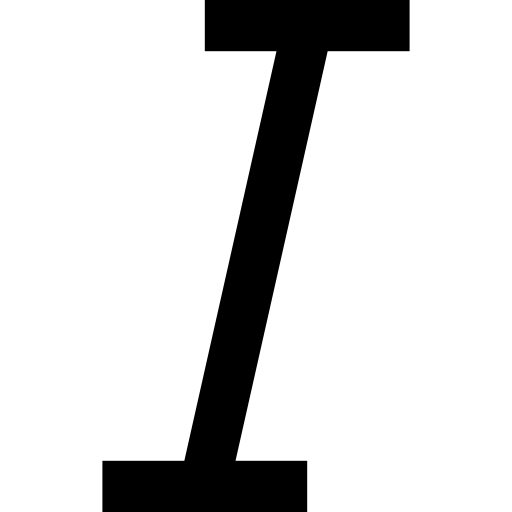
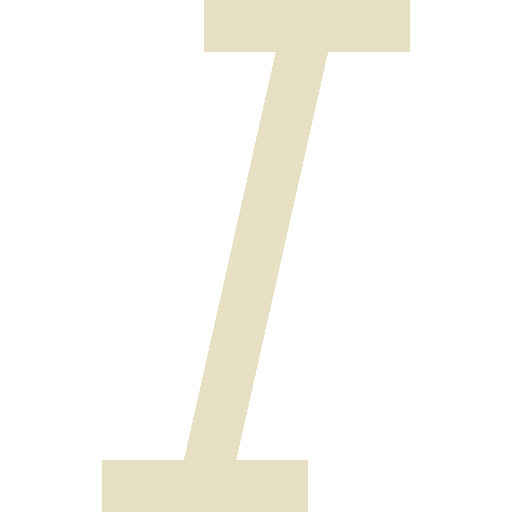
Text spacing, theme change, color picker

Changed region(s): [[0.1875, 0.0, 0.8125, 1.0]]

diff --git a/toolbar.py b/toolbar.py
@@ -7,6 +7,9 @@ import customtkinter as ctk
 from PIL import Image
 from CTkScrollableDropdown import *
 from text_field import *
+from CTkListbox import *
+
+from CTkColorPicker import *
 
 
 class Toolbar(ctk.CTkFrame):
@@ -15,13 +18,15 @@ class Toolbar(ctk.CTkFrame):
     def __init__(self, parent, fonts):
         super().__init__(master=parent)
         
-        self.italic_image = ctk.CTkImage(dark_image=Image.open("Assets/italic_white.png"), size=(13,13))
+        self.italic_image = ctk.CTkImage(dark_image=Image.open("Assets/italic.png"), size=(13,13))
         self.align_left_image = ctk.CTkImage(dark_image=Image.open("Assets/align_left.png"), size=(16,16))
         self.align_center_image = ctk.CTkImage(dark_image=Image.open("Assets/align_center.png"), size=(16,16))
         self.align_right_image = ctk.CTkImage(dark_image=Image.open("Assets/align_right.png"), size=(16,16))
+        self.text_spacing_image = ctk.CTkImage(dark_image=Image.open("Assets/spacing.png"), size=(16,16))
         self.grid(row=0, column=1, sticky='nsew')
         self.configure(fg_color=FG_COLOR)
-        
+        self.spacing_values = [0.0, 1.0,2.0,3.0,4.0,5.0]
+    
         self.fonts = fonts
         self.fonts = [font for font in self.fonts if not font.startswith('@')]
         self.fonts = sorted(self.fonts)
@@ -38,10 +43,10 @@ class Toolbar(ctk.CTkFrame):
         self.font_size_frame = ctk.CTkFrame(self, fg_color=TEXT_FIELD_COLOR, corner_radius=5)
         self.font_size_frame.pack(side='left', padx=10, anchor='center')
         
-        self.font_button = ctk.CTkButton(self.font_size_frame, text='Arial', width=100, fg_color=BUTTON_COLOR, font=('Segoe UI Variable',16 ), anchor='center', corner_radius=5, hover_color=BUTTON_HOVER_COLOR)
+        self.font_button = ctk.CTkButton(self.font_size_frame, text='Arial', width=100, text_color=TEXT_COLOR, fg_color=BUTTON_COLOR, font=('Segoe UI Variable',16 ), anchor='center', corner_radius=5, hover_color=BUTTON_HOVER_COLOR)
         self.font_button.pack(side='left', padx=4, pady=4)
         
-        self.font_size_button = ctk.CTkButton(self.font_size_frame, text=str(self.default_textfield_font_size), width=30, fg_color=BUTTON_COLOR, font=('Segoe UI Variable', 16 ), corner_radius=5, hover_color=BUTTON_HOVER_COLOR)
+        self.font_size_button = ctk.CTkButton(self.font_size_frame, text=str(self.default_textfield_font_size),text_color=TEXT_COLOR ,width=30, fg_color=BUTTON_COLOR, font=('Segoe UI Variable', 16 ), corner_radius=5, hover_color=BUTTON_HOVER_COLOR)
         self.font_size_button.pack(side='left', pady=4, padx= 4)
         
         
@@ -55,13 +60,13 @@ class Toolbar(ctk.CTkFrame):
         self.bold_italic_frame = ctk.CTkFrame(self, fg_color=TEXT_FIELD_COLOR, corner_radius=5)
         self.bold_italic_frame.pack(side='left', padx=10, anchor='center')
         
-        self.bold_button =ctk.CTkButton(self.bold_italic_frame, text='B', width=25, fg_color=BUTTON_COLOR, font=('Segoe UI Variable',16, 'bold' ), anchor='center', corner_radius=5, hover_color=BUTTON_HOVER_COLOR, command=self.bold_text)
+        self.bold_button =ctk.CTkButton(self.bold_italic_frame, text='B', text_color=TEXT_COLOR,width=25, fg_color=BUTTON_COLOR, font=('Segoe UI Variable',16, 'bold' ), anchor='center', corner_radius=5, hover_color=BUTTON_HOVER_COLOR, command=self.bold_text)
         self.bold_button.pack(side='left', pady=4, padx=4)
         
         self.italic_button =ctk.CTkButton(self.bold_italic_frame, text='',width=25, fg_color=BUTTON_COLOR, anchor='center', corner_radius=5, hover_color=BUTTON_HOVER_COLOR, image=self.italic_image, command=self.italic_text)
         self.italic_button.pack(side='left', pady=4, padx=4)
         
-        self.underline_button =ctk.CTkButton(self.bold_italic_frame, text='U',width=25, fg_color=BUTTON_COLOR, font=('Segoe UI Variable',16, 'underline' ), anchor='center', corner_radius=5, hover_color=BUTTON_HOVER_COLOR)
+        self.underline_button =ctk.CTkButton(self.bold_italic_frame, text='U',width=25,text_color=TEXT_COLOR, fg_color=BUTTON_COLOR, font=('Segoe UI Variable',16, 'underline' ), anchor='center', corner_radius=5, hover_color=BUTTON_HOVER_COLOR)
         self.underline_button.pack(side='left', pady=4, padx=4)
         
         
@@ -78,6 +83,33 @@ class Toolbar(ctk.CTkFrame):
         self.align_right =ctk.CTkButton(self.align_text_frame, text='',width=25, fg_color=BUTTON_COLOR,  corner_radius=5, hover_color=BUTTON_HOVER_COLOR, image=self.align_right_image)
         self.align_right.pack(side='left', pady=4, padx=4)
         
+        
+        self.spacing_color_frame = ctk.CTkFrame(self, fg_color=TEXT_FIELD_COLOR, corner_radius=5)
+        self.spacing_color_frame.pack(side='left', padx=10, anchor='center')
+        
+        self.spacing_button =ctk.CTkButton(self.spacing_color_frame, text='0.0',text_color=TEXT_COLOR,width=25, fg_color=BUTTON_COLOR, anchor='center', corner_radius=5, hover_color=BUTTON_HOVER_COLOR, image=self.text_spacing_image)
+        self.spacing_button.pack(side='left', pady=4, padx=4)
+        
+        
+        CTkScrollableDropdown(self.spacing_button, values=self.spacing_values, width=150,
+                      scrollbar=True, command=self.change_spacing)
+        
+       
+       
+        self.color_picker_frame = ctk.CTkFrame(self, fg_color=TEXT_FIELD_COLOR, corner_radius=5)
+        self.color_picker_frame.pack(side='left', padx=10, anchor='center')
+        self.color_button = ctk.CTkButton(master=self.color_picker_frame, text="CHOOSE COLOR", text_color="black", command=self.ask_color)
+        self.color_button.pack(side='left', pady=4, padx=4)
+       
+
+    def ask_color(self):
+        pick_color = AskColor() # open the color picker
+        color = pick_color.get() # get the color string
+        self.text.configure(fg=color)
+    def change_spacing(self, selected_spacing):
+        
+        self.text.configure(spacing1=selected_spacing)
+        self.spacing_button.configure(text=selected_spacing)
         
     def bold_text(self):
         try:

diff --git a/style.py b/style.py
@@ -1,26 +1,55 @@
-TEXT_COLOR = '#cdd6f4'
+# TEXT_COLOR = '#cdd6f4'
 
-HOVER_COLOR = '#494d64'
+# HOVER_COLOR = '#494d64'
 
-FG_COLOR = '#1e2030'
+# FG_COLOR = '#1e2030'
 
-MENU_COLOR = '#313244'
+# MENU_COLOR = '#313244'
 
-HOVER_MENU_COLOR = '#5b5f73'
+# HOVER_MENU_COLOR = '#5b5f73'
 
-SEPARATOR_COLOR  = '#6d7182'
+# SEPARATOR_COLOR  = '#6d7182'
 
-TEXT_FIELD_COLOR = '#24273a'
+# TEXT_FIELD_COLOR = '#24273a'
+
+# SCROLLBAR_COLOR= '#6c7086'
+
+# HOVER_SCROLLBAR_COLOR= '#9399b2'
+
+# TOOLBAR_COLOR = '#585b70'
+
+# BUTTON_COLOR = '#5a5c77'
+
+# BUTTON_HOVER_COLOR = '#5b4676'
+
+
+TEXT_COLOR = '#e8e0c2'
+
+HOVER_COLOR = '#68560f'
+
+FG_COLOR = '#585148'
+
+MENU_COLOR = '#65605b'
+
+HOVER_MENU_COLOR = '#68560f'
+
+SEPARATOR_COLOR  = '#575047'
+
+TEXT_FIELD_COLOR = '#e7e0c7'
 
 SCROLLBAR_COLOR= '#6c7086'
 
 HOVER_SCROLLBAR_COLOR= '#9399b2'
 
 TOOLBAR_COLOR = '#585b70'
+BUTTON_COLOR = '#573923'
 
-BUTTON_COLOR = '#5a5c77'
+BUTTON_HOVER_COLOR = '#68560f'
 
-BUTTON_HOVER_COLOR = '#5b4676'
+TEXT_FIELD_TEXT_COLOR = '#575047'
+
+
+
 
 EXIT = "Exit"
 NEW_FILE  = "New                                    Ctrl+N"

diff --git a/menu.py b/menu.py
@@ -14,11 +14,11 @@ class MenuBar(ctk.CTkFrame):
         menu = CTkTitleMenu(parent,  padx=10, y_offset=4)
         
         file_button = menu.add_cascade('File')
-        file_button.configure(  fg_color='transparent', hover_color=HOVER_COLOR, font=('Segoe UI Variable', 16 ),anchor='center', text_color=TEXT_COLOR)
+        file_button.configure(  fg_color='transparent', hover_color=HOVER_COLOR, font=('Segoe UI Variable', 16 ),anchor='center', text_color='#e8e0c2')
       
        
         edit_button = menu.add_cascade("Edit")
-        edit_button.configure(  fg_color='transparent', hover_color=HOVER_COLOR, font=('Segoe UI Variable', 16 ),anchor='center', text_color=TEXT_COLOR)
+        edit_button.configure(  fg_color='transparent', hover_color=HOVER_COLOR, font=('Segoe UI Variable', 16 ),anchor='center', text_color='#e8e0c2')
         
         #? Placeholder settings_button = menu.add_cascade("Settings")
         #? Placeholder settings_button.configure(  fg_color='transparent', hover_color=HOVER_COLOR, font=('Segoe UI Variable', 16 ),anchor='center', text_color=TEXT_COLOR)

diff --git a/main.py b/main.py
@@ -23,7 +23,8 @@ except:
 
 class App(ctk.CTk):
     
-    TITLE_BAR_COLOR = 0x00261918
+    #TITLE_BAR_COLOR = 0x00261918
+    
     ICON_PATH = os.path.join("Assets", "quill.png")
     def __init__(self):
         super().__init__()
@@ -32,10 +33,10 @@ class App(ctk.CTk):
         #self.resizable(False, False)
         self.configure(fg_color=FG_COLOR)
         
+        self.TITLE_BAR_COLOR = 0x00282d2e
         
-        
-        
-        
+        #45433b
+        #2e2d28
         self.font_families = font.families()
     
         #  Widgets
@@ -68,8 +69,8 @@ class App(ctk.CTk):
     def change_titlebar_color(self):
         try:
             HWND = windll.user32.GetParent(self.winfo_id())
-            title_bar_color = 0x00261918
-            windll.dwmapi.DwmSetWindowAttribute(HWND, 35, byref(c_int(title_bar_color)), sizeof(c_int))
+            
+            windll.dwmapi.DwmSetWindowAttribute(HWND, 35, byref(c_int(self.TITLE_BAR_COLOR)), sizeof(c_int))
         except:
             pass
     

diff --git a/text_field.py b/text_field.py
@@ -20,15 +20,16 @@ class TextField(tk.Text):
         
         
         self.configure(bg=TEXT_FIELD_COLOR,
-                       fg=TEXT_COLOR,
+                       fg=TEXT_FIELD_TEXT_COLOR,
                        bd=0,
                        font=('Segoe UI Variable', 16 ),
-                       insertbackground='white',
+                       insertbackground='#148e9b',
                        relief='flat',
-                       selectbackground=HOVER_COLOR,
+                       selectbackground='#148e9b',
                        yscrollcommand=self.scrollbar.set,
                        undo=True,
-                       maxundo=1)
+                       maxundo=1,
+                       inactiveselectbackground='#148e9b')
                        
       
         
